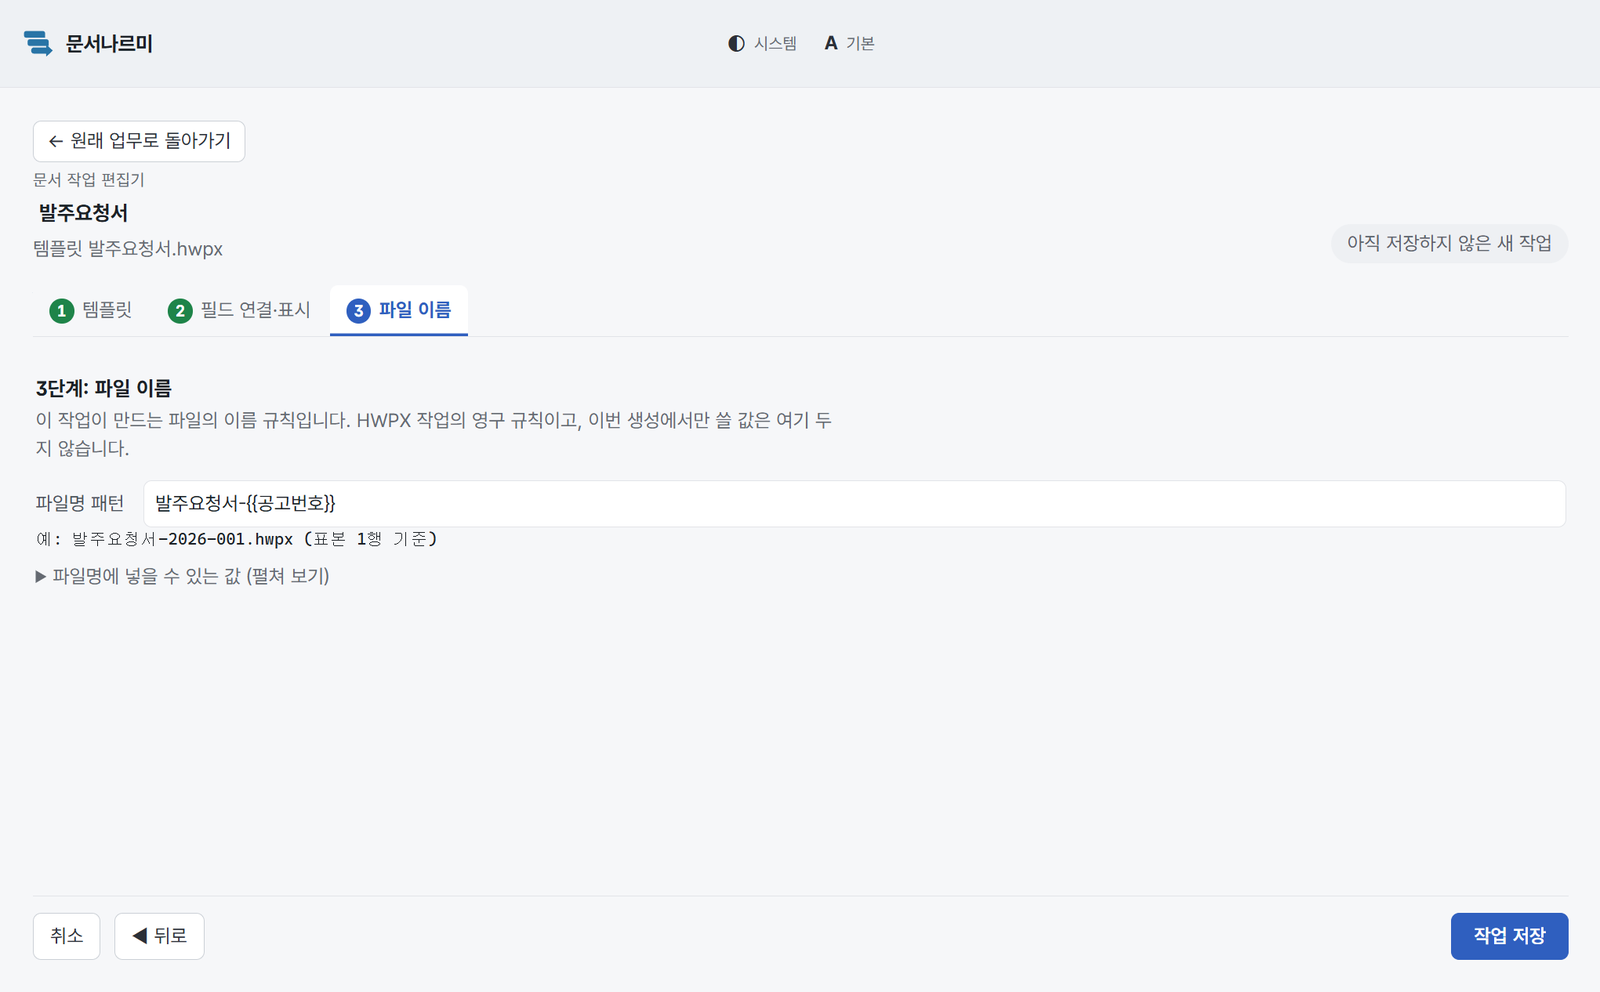
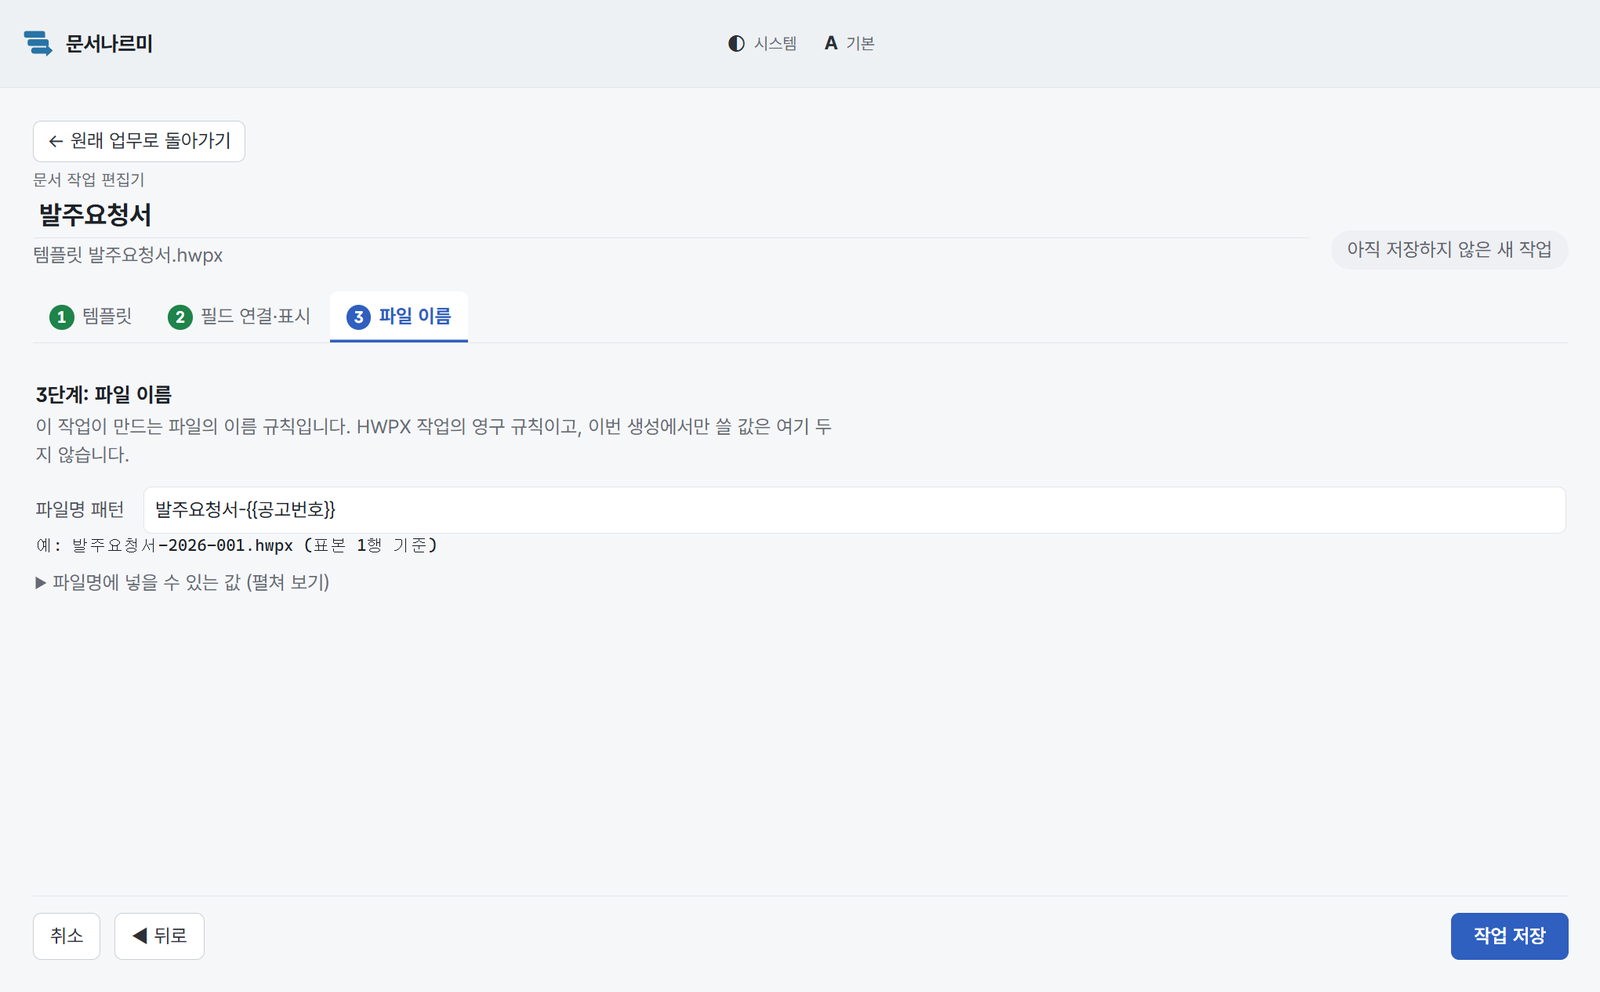
feat: 마법사 발견성·저장 게이트 조준·일괄 재제안·후보 0건 출구 (#333)
U2 §2.4 네 항목. 「이 데이터로 신규 작업」은 §2.8(참조 분류 2축화)이 선행 조건이라 이번
라운드 밖이다 — 실측상 `document_browser_new_work` 는 발신자가 아직 0곳이라 그 줄만
지워도 열리는 것이 없다.

**작업명 발견성 + 저장 차단 시 조준.** 이름은 보이는 라벨 0에 테두리·배경이 투명한
제목 자리 입력이라 고칠 수 있는 칸으로 안 보였다. 밑줄 하나를 남겨 「제목처럼 읽히되
입력으로 보인다」를 둘 다 만족시킨다. 토큰도 정리한다 — `--fs-h1` 은 tokens.css 에 정의가
없어 늘 폴백으로 서고 있었다(없는 토큰의 폴백에 기대면 그 토큰이 생기는 날 조용히 바뀐다).

저장이 막힐 때 커서가 안 움직였다. 링1 판정에 `blocked_field` 를 실어 표면이 그 칸을
겨눈다 — 링2 가 차단 **문구를 파싱해** 알아내면 문안을 고칠 때마다 조준이 조용히 깨진다.
겨눌 칸이 없는 차단(미확정·전부 비움)은 빈 문자열이다: 없는 칸을 겨눈 척하지 않는다.

**「변경 저장」 dirty 게이트.** `s.dirty` 는 이미 스냅샷에 있었는데 표면이 안 썼다. 편집
모드에만 건다 — 신규 마법사는 항상 dirty 고 마지막 단계의 「작업 저장」은 완료 행동이지
변경 저장이 아니다. 라벨 통일은 §10.13 판정 E 대조가 선행이라 건드리지 않는다.

**일괄 재제안 신설**(`resuggest_all`). 행 단위 ↩ 는 있었지만 일괄은 등록된 액션이 없었다.
착지는 행 단위와 **같다**(행마다 revert_to_auto → resuggest_row) — 「일괄로 한 것」과
「하나씩 N번 한 것」이 다르면 어느 쪽이 진짜인지 알 수 없다. 확정 행은 거절이 아니라
제외다: 확정 하나 때문에 나머지를 못 돌리면 확정을 풀었다 다시 거는 우회를 시킨다.
대신 건드린 수와 둔 수를 돌려주고, 대상이 0개면 표면이 무동작을 말한다.

**후보 0건 출구.** 흡수처 출구는 데이터·작업이 둘 다 없을 때만 섰는데, 정작 출구가 필요한
상태는 「데이터는 골랐고 그 데이터로 쓸 작업이 0건」이다. 거기서 화면은 평문 한 줄로
끝나 더 갈 데가 없었다. 「흡수했다고 적어 놓고 가는 길을 안 보여 주면 그게 조용한
소실」이라는 §10.9 판정 C 가 이 자리에도 걸린다.

Claude-Session: https://claude.ai/code/session_019GfPPAf3rQnNk4pgaKWT7v

diff --git a/web/js/screens/editor.js b/web/js/screens/editor.js
@@ -698,6 +698,9 @@
         <span class="spacer"></span>
         <button class="btn" data-act="confirm-all">모두 확정</button>
         <button class="btn" data-act="unconfirm-all">모두 해제</button>
+        <!-- 행 아이콘(↻)의 텍스트 짝(U2 §2.4·§2.6) — 행마다 라벨을 달 폭이 없어(3열 170px
+             고정) 아이콘으로 두는 대신, 그 기능의 이름은 여기서 한 번 말한다. -->
+        <button class="btn" data-act="resuggest-all">자동 제안 다시 받기</button>
         ${s.unconfirm_undo_count ? `<button class="btn" data-act="restore-confirmed">직전 확정 ${s.unconfirm_undo_count}개 복원</button>` : ""}
       </div>
       ${dataPreview(s)}`;
@@ -879,8 +882,12 @@
       // 선택지를 모든 문맥에 나열하지 않는다). 손댄 것이 없으면 버릴 것도 없다.
       const discard = s.dirty
         ? `<button class="btn" data-act="discard-patch">변경 버리기</button>` : "";
+      // 저장은 **바꾼 것이 있을 때만** 선다(U2 §2.4). 원문의 요지는 두 모드를 이름이
+      // 아니라 **상태로** 구별하자는 것이고, 판정은 이미 `s.dirty` 로 와 있었는데 표면이
+      // 안 썼다. 신규 마법사에는 걸지 않는다 — 거긴 항상 dirty 라 늘 활성이고, 마지막
+      // 단계의 「작업 저장」은 완료 행동이지 변경 저장이 아니다.
       return `${discard}<span class="spacer"></span>` +
-        `<button class="btn primary" data-act="save">변경 저장</button>`;
+        `<button class="btn primary" data-act="save"${s.dirty ? "" : " disabled"}>변경 저장</button>`;
     }
     const back = here > 0
       ? `<button class="btn" data-act="back">◀ 뒤로</button>` : `<button class="btn" disabled>◀ 뒤로</button>`;
@@ -1073,6 +1080,27 @@
         }
         case "revert-source":
           await sendEdit("revert_source", { index: idx }); break;
+        case "resuggest-all": {
+          // use-none 과 같은 순서다: 수치는 Python 이 **지금** 판정하고(stale LAST 우회
+          // 차단), 확인은 그 수치로 묻는다. 다만 확정 행은 선차단이 아니라 **제외**다 —
+          // 일괄 재제안은 파괴가 아니라 재계산이고, 확정 하나 때문에 나머지를 못 돌리면
+          // 확정을 풀었다 다시 거는 우회를 시킨다.
+          const st = await sendEdit("mapping_reset_stakes", {});
+          const man = (st && st.manual_unconfirmed) || 0;
+          const kept = (st && st.confirmed) || 0;
+          if (man && !(await Modal.confirm({ body:
+            `직접 소스를 고른 매핑 ${man}개가 자동 제안으로 바뀝니다.` +
+            (kept ? `\n확정한 ${kept}개는 그대로 둡니다.` : "") +
+            `\n\n계속할까요?`,
+            confirmLabel: "다시 받기", cancelLabel: "취소" }))) break;
+          const res = await sendEdit("resuggest_all", {});
+          // 아무것도 안 바뀐 경우를 조용히 넘기지 않는다 — 누른 버튼이 무동작으로 보이면
+          // 그게 조용한 소실이다(전 행이 확정이면 대상이 0개다).
+          if (res && !res.resuggested) {
+            window.alert(`자동 제안을 다시 받을 행이 없습니다. 확정한 ${res.kept_confirmed}개는 그대로 둡니다.`);
+          }
+          break;
+        }
         case "prev-rec": await sendEdit("step_preview", { delta: -1 }); break;
         case "next-rec": await sendEdit("step_preview", { delta: 1 }); break;
         case "unconfirm-all": await sendEdit("unconfirm_all", {}); break;
@@ -1187,7 +1215,29 @@
       return false;
     }
     alertMsg(res.dataset_error || res.block_reason || "저장할 수 없습니다.");
+    aimAtBlockedField(res.blocked_field);
     return false;
+  }
+
+  /* 차단당한 칸으로 커서를 옮긴다(U2 §2.4) — "입력하세요"라고 말한 뒤 어디에 입력할지
+     안 알려 주면 지시가 절반이다. 작업 이름은 보이는 라벨 없이 제목 자리에 사는 입력이라
+     (`.title-input`, 테두리·배경 투명) 특히 못 찾는다.
+
+     **어느 칸인지는 Python 이 말한다**(`blocked_field`). 그리고 이름 칸은 `#editor-body`
+     밖 고정 머리에 살아 섹션을 갈아도 살아 있다 — 파일명 패턴은 그 반대라 해당 탭이
+     그려져 있을 때만 겨눌 수 있고, 없으면 조용히 아무 일도 하지 않는다(없는 칸을 겨눈
+     척하지 않는다). */
+  function aimAtBlockedField(field) {
+    const el = field === "name" ? $("editorName")
+      : field === "pattern" ? document.querySelector('#editor-body input[data-act="pattern"]')
+        : null;
+    if (!el) return;
+    el.focus();
+    if (typeof el.select === "function") el.select();
+    // 초점은 **이동**을 말하고 색은 **사유**를 말한다 — 초점만 옮기면 왜 여기로 왔는지가
+    // 없다. 표지는 그 칸을 고치는 순간 걷는다(고쳐도 붉은 채면 표지가 거짓말이 된다).
+    el.setAttribute("aria-invalid", "true");
+    el.addEventListener("input", () => el.removeAttribute("aria-invalid"), { once: true });
   }
 
   function alertMsg(msg, level) {

diff --git a/web/css/editor.css b/web/css/editor.css
@@ -137,9 +137,21 @@ body.editor-open .nav,body.workbench-open .nav{display:none}
 .ctxbanner .ctx-ev b{color:var(--a-ink);font-weight:600}
 /* 증거의 이전 값(재작성 F7) — 지금 값과 대비되게 죽인다(강조는 새 값 쪽). */
 .ev-before{color:var(--a-muted);text-decoration:line-through}
-/* 이름은 제목 자리에 산다(「저장」 분류 사망의 승계) — 입력이되 제목처럼 읽힌다. */
-.title-input{font:inherit;font-size:var(--fs-h1,var(--fs-strong));font-weight:700;
-  border-color:transparent;background:transparent;padding:var(--sp-2) var(--sp-4);width:100%}
+/* 이름은 제목 자리에 산다(「저장」 분류 사망의 승계) — 입력이되 제목처럼 읽힌다.
+   토큰은 `--fs-section`(화면 제목 역할, H-01)을 쓴다 — 종전 `--fs-h1` 은 tokens.css 에
+   **정의가 없어** 늘 폴백(`--fs-strong`)으로 서고 있었다. 없는 토큰의 폴백에 기대면
+   그 토큰이 생기는 날 크기가 조용히 바뀐다.
+
+   **입력임이 보여야 한다**(U2 §2.4): 테두리·배경을 통째로 지우면 제목처럼 읽히는 대신
+   고칠 수 있는 칸이라는 사실이 사라진다. 보이는 라벨이 0이고 플레이스홀더가 유일한
+   안내라 더 그렇다. 밑줄 하나만 남겨 「제목처럼 읽히되 입력으로 보인다」를 둘 다 만족한다. */
+.title-input{font:inherit;font-size:var(--fs-section);font-weight:700;
+  border-color:transparent;border-bottom-color:var(--a-border);border-radius:0;
+  background:transparent;padding:var(--sp-2) var(--sp-4);width:100%}
+.title-input::placeholder{font-weight:400;color:var(--a-muted)}
 .title-input:hover{border-color:var(--a-border)}
 .title-input:focus{border-color:var(--a-primary);background:var(--a-card)}
+/* 저장이 이름에서 막히면 여기로 커서가 온다 — 초점만으로는 "왜 여기냐"를 말하지 못하므로
+   경보색 밑줄을 함께 단다(초점 표지는 이동을, 색은 사유를 말한다). */
+.title-input:invalid,.title-input[aria-invalid="true"]{border-bottom-color:var(--a-danger)}
 

diff --git a/web/js/screens/job.js b/web/js/screens/job.js
@@ -402,8 +402,14 @@
         `<span class="muted">${esc(c.txt_note)}</span></div>`
       : "";
     if (!top.length && !needs.length) {
+      // 막다른 자리를 만들지 않는다(U2 §2.4). 흡수처 출구(`#jobNoDataExit`)는 데이터·작업이
+      // **둘 다** 없을 때만 서는데, 정작 출구가 필요한 상태는 여기다 — 데이터는 골랐고 그
+      // 데이터로 쓸 작업이 하나도 없어 이 화면에서 더 갈 데가 없다. 「흡수했다고 적어 놓고
+      // 가는 길을 안 보여 주면 그게 조용한 소실」이라는 §10.9 판정 C 가 이 자리에도 걸린다.
       host.innerHTML =
-        `<span class="muted">현재 데이터에 사용할 수 있는 문서 작업이 없습니다.</span>` + txtNote;
+        `<span class="muted">현재 데이터에 사용할 수 있는 문서 작업이 없습니다.</span>` +
+        `<button class="btn sm" type="button" data-cands-exit>「문서 작업」에서 고르기</button>` +
+        txtNote;
       return;
     }
     // 작업 방식 구획(§19.3) — **구획 여부·순서 판정은 Python**(candidates.sections)이고
@@ -1549,6 +1555,11 @@
     // 보는 경로는 「문서 작업」이 흡수했고, 여기서는 그 흡수처를 가리키기만 한다(겨눔 없음:
     // 명시 선택은 저쪽 「문서 만들기에서 사용」이 `prefer_work` 로 낸다).
     $("jobPickInLibrary").addEventListener("click", () => window.Nav.go("library"));
+    // 같은 출구가 「데이터는 있는데 쓸 작업이 0건」에도 선다(U2 §2.4). 후보 구획은 매 푸시
+    // 다시 그려지므로 안정 컨테이너에 위임한다 — 버튼에 직접 걸면 첫 렌더에만 붙는다.
+    $("jobCandidates").addEventListener("click", (e) => {
+      if (e.target.closest("[data-cands-exit]")) window.Nav.go("library");
+    });
     // 재렌더에도 살아남게 안정 컨테이너에 위임(#67).
     $("jobRelink").addEventListener("click", (e) => {
       if (e.target.closest('[data-act="relink-template"]')) doRelinkTemplate();

diff --git a/tests/test_webapp_editor.py b/tests/test_webapp_editor.py
@@ -1554,6 +1554,66 @@ def test_revert_source_refuses_confirmed_rows(tmp_path):
     assert ctrl.snapshot()["rows"][0]["confirmed"] is True            # 무파괴
 
 
+def test_resuggest_all_reverts_every_unconfirmed_row(tmp_path):
+    """일괄 재제안(U2 §2.4) — 행 단위 ↩ 의 일괄판. 착지가 행 단위와 **같아야** 한다.
+
+    「일괄로 한 것」과 「하나씩 N번 한 것」이 다르면 사용자는 둘 중 어느 쪽이 진짜인지
+    알 수 없다 — 그래서 전집합 `apply_active_sources` 가 아니라 행마다
+    `revert_to_auto` → `resuggest_row` 로 간다.
+    """
+    ctrl, _ = _controller(tmp_path)
+    ctrl.load_template_path(str(TPL_COMPILED))
+    ctrl.load_data_path(str(MULTI_SHEET), sheet="낙찰현황")
+    ctrl.dispatch("goto_section", {"section": "binding"})
+    ctrl.dispatch("set_source", {"index": 0, "source": "계약일"})     # 수동 오지정
+    ctrl.dispatch("set_source", {"index": 1, "source": "없는열"})     # 또 다른 수동
+    res = ctrl.dispatch("resuggest_all", {})
+    snap = ctrl.snapshot()
+    assert res["kept_confirmed"] == 0
+    assert res["resuggested"] == len(snap["rows"])
+    # 행 단위 ↩ 와 같은 착지 — 전부 시스템 소유로 돌아간다.
+    assert all(r["touched"] is False for r in snap["rows"])
+    assert snap["rows"][1]["source"] != "없는열"
+
+
+def test_resuggest_all_keeps_confirmed_rows_and_says_so(tmp_path):
+    """확정 행은 **거절이 아니라 제외**다(U2 §2.4) — 그리고 제외했다고 수치로 말한다.
+
+    행 단위 ↩ 는 확정 행을 시끄럽게 거절하는데(오클릭 한 번에 확정이 풀리면 안 된다),
+    일괄에서 같은 규칙을 쓰면 확정 하나 때문에 나머지 전부를 못 돌려 「확정을 풀었다 다시
+    건다」는 우회를 시킨다. 대신 건드린 수와 둔 수를 함께 돌려준다 — 부분 동작을 조용히
+    하지 않는다.
+    """
+    ctrl, _ = _controller(tmp_path)
+    ctrl.load_template_path(str(TPL_COMPILED))
+    ctrl.load_data_path(str(MULTI_SHEET), sheet="낙찰현황")
+    ctrl.dispatch("goto_section", {"section": "binding"})
+    ctrl.dispatch("set_source", {"index": 0, "source": "낙찰금액"})
+    ctrl.dispatch("set_confirmed", {"index": 0, "confirmed": True})
+    total = len(ctrl.snapshot()["rows"])
+    res = ctrl.dispatch("resuggest_all", {})
+    snap = ctrl.snapshot()
+    assert res == {"resuggested": total - 1, "kept_confirmed": 1}
+    assert snap["rows"][0]["confirmed"] is True                       # 무파괴
+    assert snap["rows"][0]["source"] == "낙찰금액"
+
+
+def test_resuggest_all_reports_zero_when_everything_is_confirmed(tmp_path):
+    """대상이 0개면 0을 돌려준다 — 표면이 「무동작」을 말할 근거다(조용한 소실 금지)."""
+    ctrl, _ = _controller(tmp_path)
+    ctrl.load_template_path(str(TPL_COMPILED))
+    ctrl.load_data_path(str(MULTI_SHEET), sheet="낙찰현황")
+    ctrl.dispatch("goto_section", {"section": "binding"})
+    # `confirm_all` 액션은 **내용 있는 행만** 확정한다(confirm_content_rows) — 전 행 확정
+    # 상태를 만들려면 행마다 명시해야 한다.
+    total = len(ctrl.snapshot()["rows"])
+    for index in range(total):
+        ctrl.dispatch("set_confirmed", {"index": index, "confirmed": True})
+    assert ctrl.dispatch("resuggest_all", {}) == {
+        "resuggested": 0, "kept_confirmed": total,
+    }
+
+
 def test_same_file_repick_after_use_none_revives_suggestions(tmp_path):
     """use_none 뒤 같은 파일 재겨눔(키 불변) — 관문 재동기화로 제안이 되살아난다(PR-3 리뷰 F3).
 

diff --git a/src/hwpxfiller/webapp/screen_editor.py b/src/hwpxfiller/webapp/screen_editor.py
@@ -1524,6 +1524,31 @@ class EditorController:
         self.model.revert_to_auto(index)
         self.model.resuggest_row(index, self._active_sources())
 
+    def _do_resuggest_all(self, p: dict) -> dict:
+        """전 행을 자동 제안으로 다시 받는다(U2 §2.4) — 행 단위 ``revert_source`` 의 일괄판.
+
+        **확정한 행은 건드리지 않는다.** 행 단위가 확정 행을 시끄럽게 거절하는 것과 같은
+        근거인데(오클릭 한 번에 확정이 조용히 풀리면 안 된다), 일괄에서는 거절이 아니라
+        **제외**다: 확정 하나 때문에 나머지 전부를 못 돌리면 사용자는 확정을 풀었다 다시
+        걸어야 한다. 대신 무엇을 건드리고 무엇을 뒀는지 수치로 돌려준다 — 부분 동작을
+        조용히 하지 않는다(confirm-or-alarm).
+
+        되돌린 행마다 ``revert_to_auto`` → ``resuggest_row`` 로 간다: 행 단위와 **같은
+        착지**여야 「일괄로 한 것」과 「하나씩 N번 한 것」이 달라지지 않는다. 전집합
+        ``apply_active_sources`` 를 쓰지 않는 이유도 같다 — 그쪽은 확정 행까지 훑는다.
+        """
+        if self.model is None:
+            return {"resuggested": 0, "kept_confirmed": 0}
+        active = self._active_sources()
+        targets = [i for i, r in enumerate(self.model.rows) if not r.confirmed]
+        for index in targets:
+            self.model.revert_to_auto(index)
+            self.model.resuggest_row(index, active)
+        return {
+            "resuggested": len(targets),
+            "kept_confirmed": len(self.model.rows) - len(targets),
+        }
+
     def _do_set_type(self, p: dict) -> None:
         self.model.set_type(int(p["index"]), p["type"])
 
@@ -1773,7 +1798,13 @@ class EditorController:
             media=template_media(self.template_path) if self.template_path else "hwpx",
         )
         if not verdict.ok:
-            return {"ok": False, "block_reason": verdict.block_reason}
+            # 어느 칸을 고쳐야 하는지도 함께 돌려준다(U2 §2.4) — 표면이 차단 문구를 파싱해
+            # 알아내면 문안을 고칠 때마다 조준이 조용히 깨진다.
+            return {
+                "ok": False,
+                "block_reason": verdict.block_reason,
+                "blocked_field": verdict.blocked_field,
+            }
         # 태그·마지막 실행 메타는 편집 세션 밖(홈 태그 편집 등)에서 바뀌었을 수 있어
         # load_job 시점 스냅샷이 아니라 저장 직전 디스크 상태를 다시 읽어 보존한다 — 편집
         # 세션이 열린 사이 홈에서 단 태그를 조용히 되돌리지 않는다(#26 confirm-or-alarm).

diff --git a/src/hwpxfiller/gui/job_editor_state.py b/src/hwpxfiller/gui/job_editor_state.py
@@ -22,10 +22,17 @@ class SaveVerdict:
 
     술어 순서는 종전 ``accept()`` 와 동일하게 고정한다:
     매핑 미확정 → 이름 없음 → 파일명 패턴 없음(RC-20) → 전부 비움(RC-08).
+
+    ``blocked_field`` 는 **고칠 입력이 어디인가**다(U2 §2.4). 차단 문구만 띄우고 커서를
+    안 옮기면 "입력하세요"라고 말한 뒤 어디에 입력할지는 안 알려 주는 꼴이고, 작업 이름은
+    보이는 라벨 없이 제목 자리에 사는 입력이라 특히 못 찾는다. 판정이 낸 이름을 표면이
+    그대로 겨눈다 — 링2 가 차단 **문구를 파싱해** 어느 칸인지 알아내면 문안을 고칠 때마다
+    조준이 조용히 깨진다.
     """
 
     block_reason: str = ""
     profile: "MappingProfile | None" = None
+    blocked_field: str = ""
 
     @property
     def ok(self) -> bool:
@@ -58,11 +65,11 @@ def validate_save(model, name: str, pattern: str, *, schema=None, media: str = "
             "매핑이 현재 템플릿 스키마와 일치하지 않습니다. 템플릿을 다시 로드한 뒤 저장하세요."
         )
     if not name:
-        return SaveVerdict("작업 이름을 입력하세요.")
+        return SaveVerdict("작업 이름을 입력하세요.", blocked_field="name")
     # 파일명 패턴은 문서 식별자를 결정한다 — 빈 입력을 화면에 없던 값으로
     # 조용히 폴백하지 않는다(확인-또는-경보, RC-20). TXT 는 이 축이 없다(위 docstring).
     if media != "txt" and not pattern:
-        return SaveVerdict("파일명 패턴을 입력하세요.")
+        return SaveVerdict("파일명 패턴을 입력하세요.", blocked_field="pattern")
     if not model.emits_any_value():
         return SaveVerdict(
             "확정된 매핑이 전부 비움이라 채울 값이 없습니다. 소스를 지정한 뒤 저장하세요."

diff --git a/tests/test_job_editor_state.py b/tests/test_job_editor_state.py
@@ -81,6 +81,26 @@ def test_validate_save_passes_with_profile():
     assert len(verdict.profile.mappings) == 2
 
 
+def test_blocked_field_names_the_input_to_fix():
+    """차단은 **고칠 칸**을 함께 말한다(U2 §2.4) — "입력하세요"만으로는 지시가 절반이다.
+
+    표면이 차단 문구를 파싱해 어느 칸인지 알아내면 문안을 고칠 때마다 조준이 조용히
+    깨진다. 판정이 이름을 내고 표면은 그것을 겨눈다.
+
+    칸을 겨눌 수 없는 차단(미확정·스키마 불일치·전부 비움)은 **빈 문자열**이다 — 없는
+    칸을 겨눈 척하지 않는다. 그것들은 표 전체가 대상이라 지목할 입력이 없다.
+    """
+    assert validate_save(_model(_content_row()), "", "doc-{{ID}}").blocked_field == "name"
+    assert validate_save(_model(_content_row()), "작업1", "").blocked_field == "pattern"
+    # TXT 는 파일 이름 축이 없어 패턴 차단 자체가 없다 — 겨눌 칸도 없다.
+    assert validate_save(_model(_content_row()), "작업1", "", media="txt").ok
+    for verdict in (
+        validate_save(_model(_content_row(confirmed=False)), "작업1", "doc-{{ID}}"),
+        validate_save(_model(_blank_row()), "작업1", "doc-{{ID}}"),
+    ):
+        assert not verdict.ok and verdict.blocked_field == ""
+
+
 def test_validate_save_predicate_order_is_stable():
     """차단 사유 순서 고정: 미확정 → 이름 → 패턴 → 전부 비움(종전 accept 와 동일)."""
     unconfirmed = _model(_content_row(confirmed=False))

diff --git a/src/hwpxfiller/webapp/action_registry.py b/src/hwpxfiller/webapp/action_registry.py
@@ -105,6 +105,7 @@ _REGISTRY: dict[str, dict[str, PayloadSchema]] = {
         "mapping_reset_stakes": _schema(),
         "set_source": _schema("index source"),
         "revert_source": _schema("index"),
+        "resuggest_all": _schema(),
         "set_type": _schema("index type"),
         "set_fmt": _schema("index fmt"),
         "set_const": _schema("index const"),
